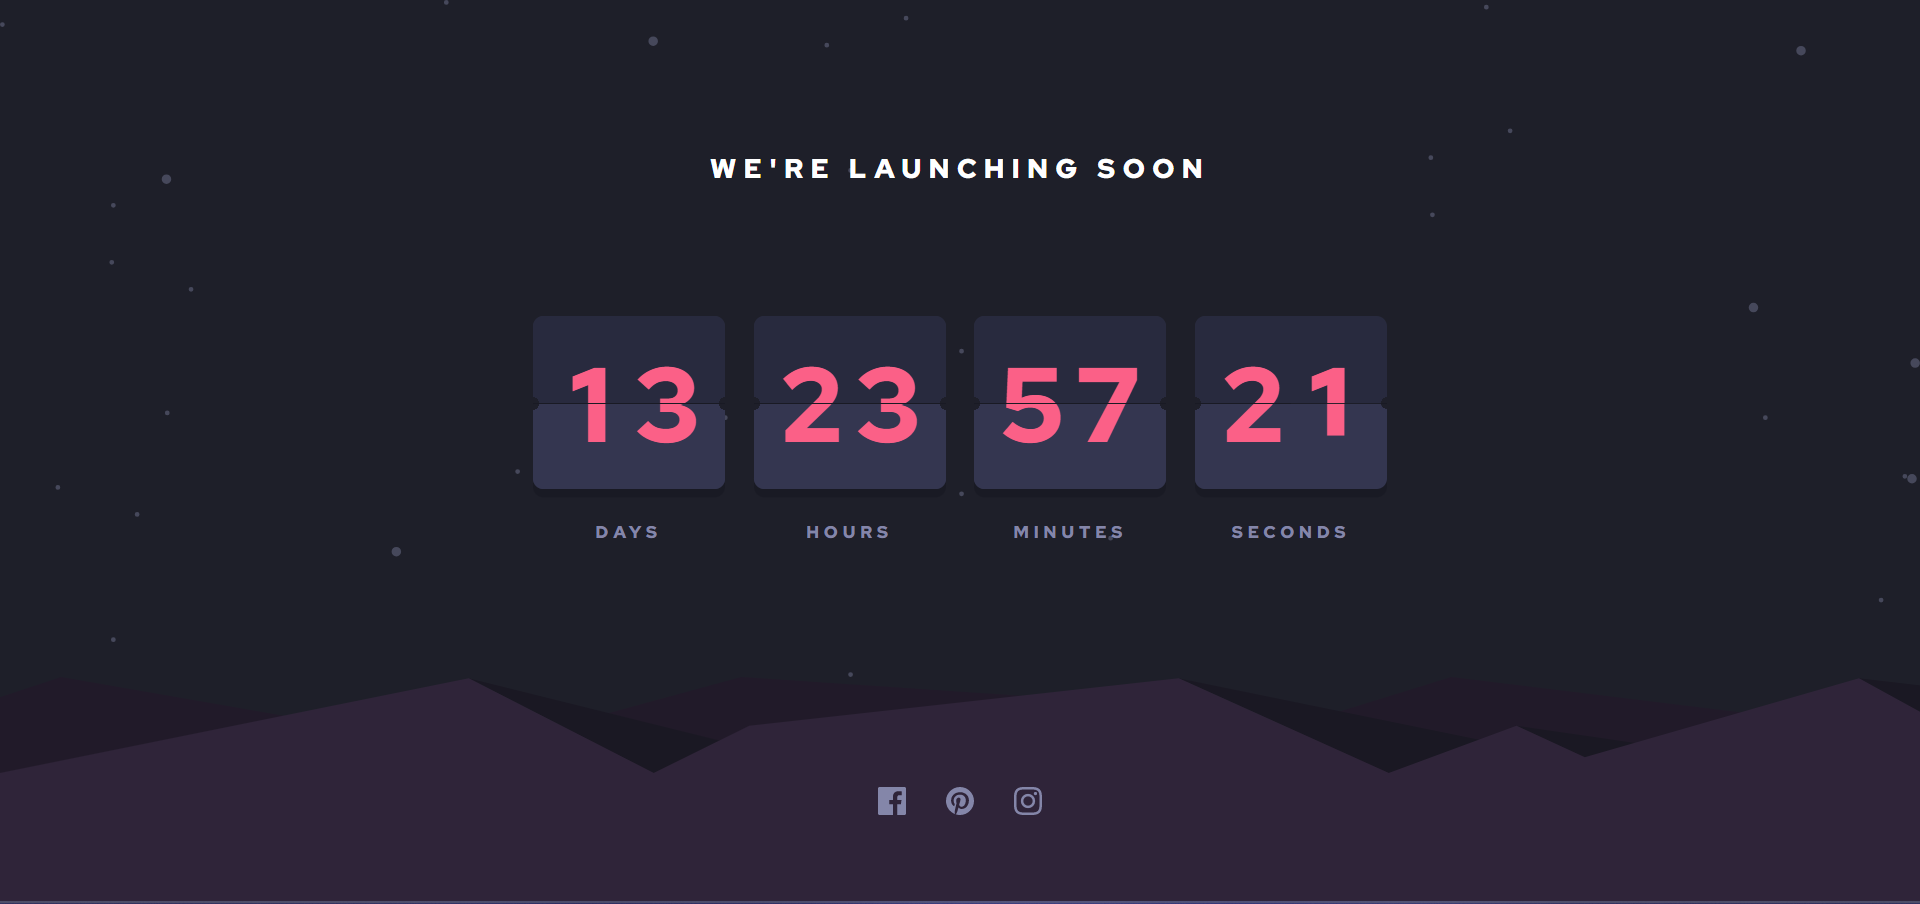
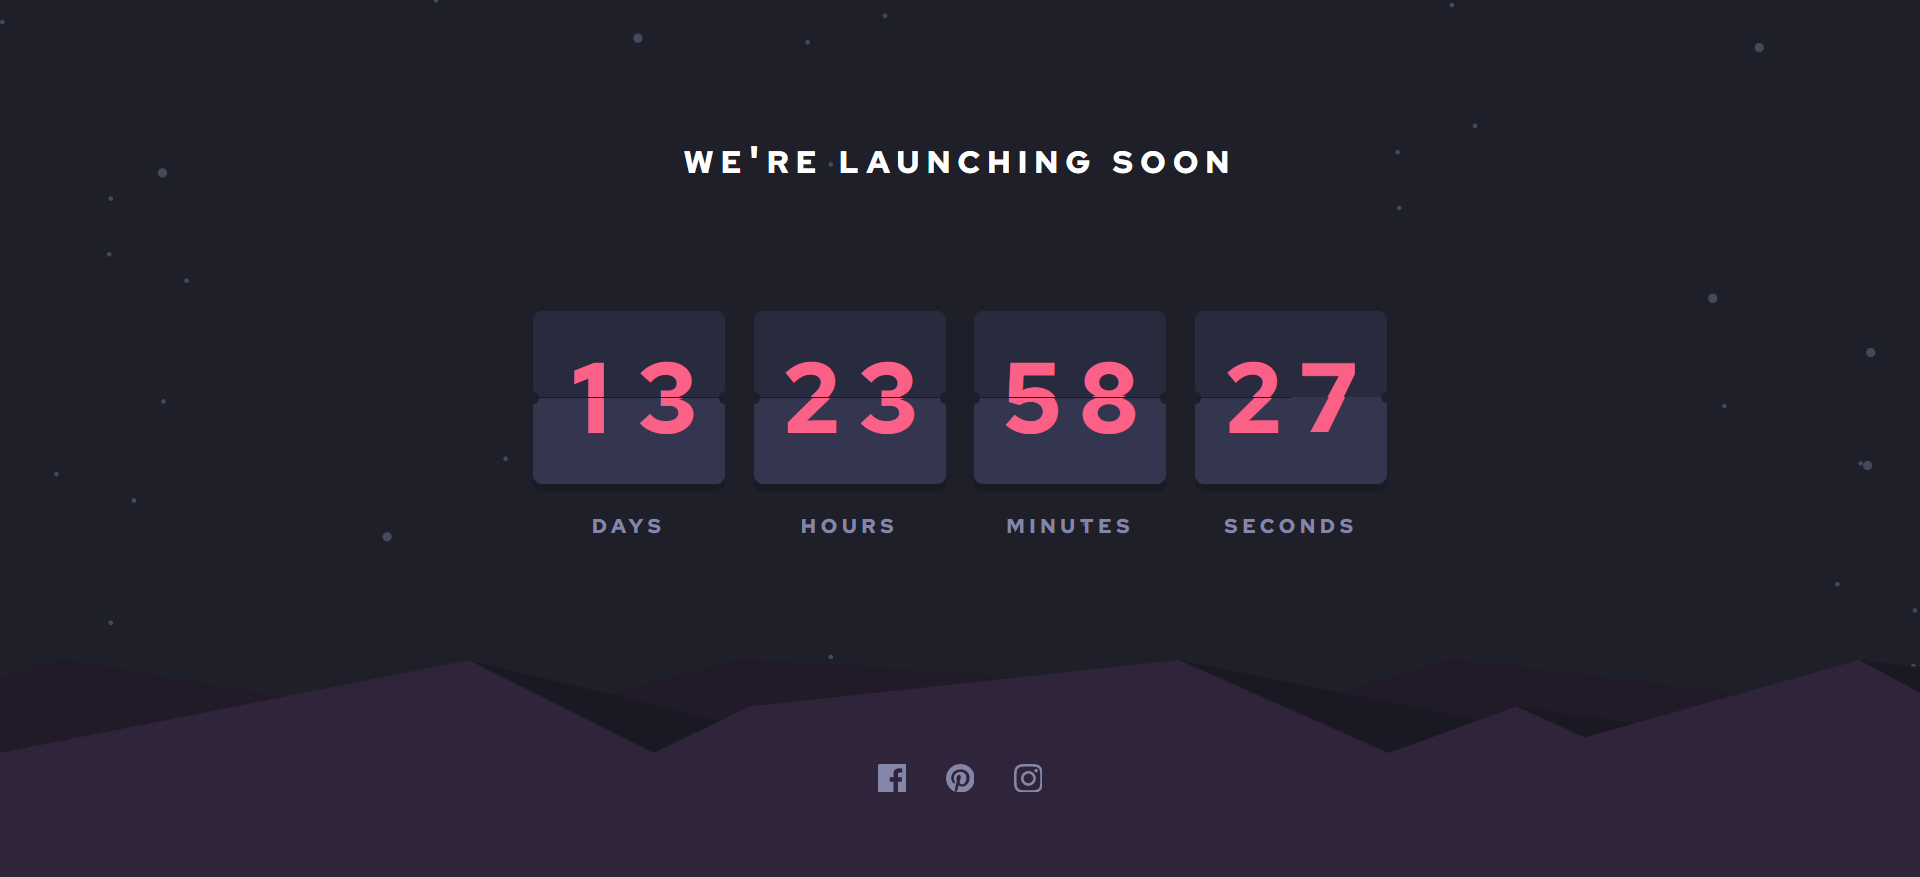
Fix design

diff --git a/style.css b/style.css
@@ -102,7 +102,7 @@ h1,
 
 .cards {
   display: block;
-  font-size: 5.5rem;
+  font-size: 5rem;
   height: 9rem;
 }
 
@@ -127,13 +127,13 @@ h1,
 }
 
 .card-element__top {
-  padding-top: 0.9rem;
+  padding-top: 1.1rem;
   color: var(--soft-red);
   background-color: var(--dark-less-desaturated-blue);
 }
 
 .card-element__bottom {
-  padding-bottom: 0.9rem;
+  padding-bottom: 1.1rem;
   line-height: 0;
   color: var(--soft-red);
   background-color: var(--dark-desaturated-blue);
@@ -170,7 +170,7 @@ h1,
 
 .card-element-flip__top {
   top: 0;
-  padding-top: 0.9rem;
+  padding-top: 1.1rem;
   color: var(--soft-red);
   background-color: var(--dark-less-desaturated-blue);
   transform-origin: bottom;
@@ -179,7 +179,7 @@ h1,
 .card-element-flip__bottom {
   bottom: 0;
   line-height: 0;
-  padding-bottom: 0.9rem;
+  padding-bottom: 1.1rem;
   color: var(--soft-red);
   background-color: var(--dark-desaturated-blue);
   border-top: 1px solid var(--very-black-blue);
